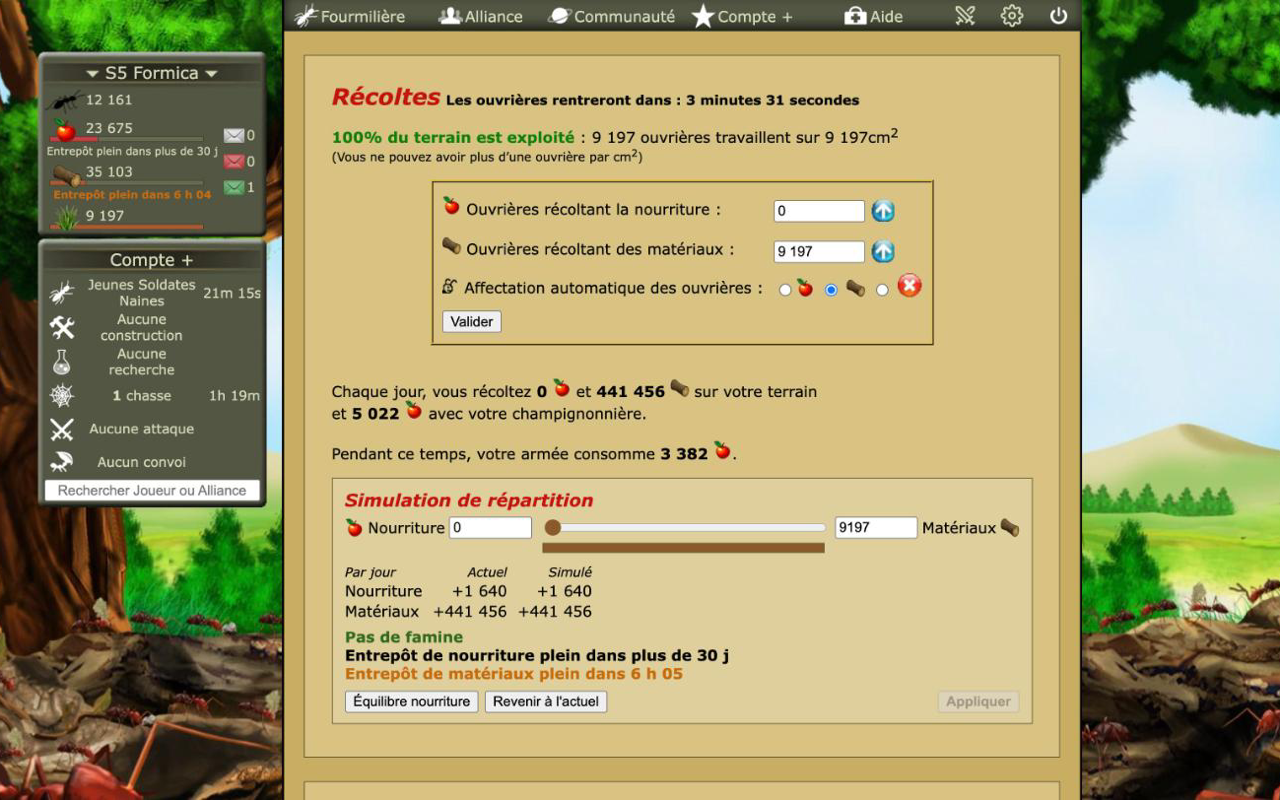
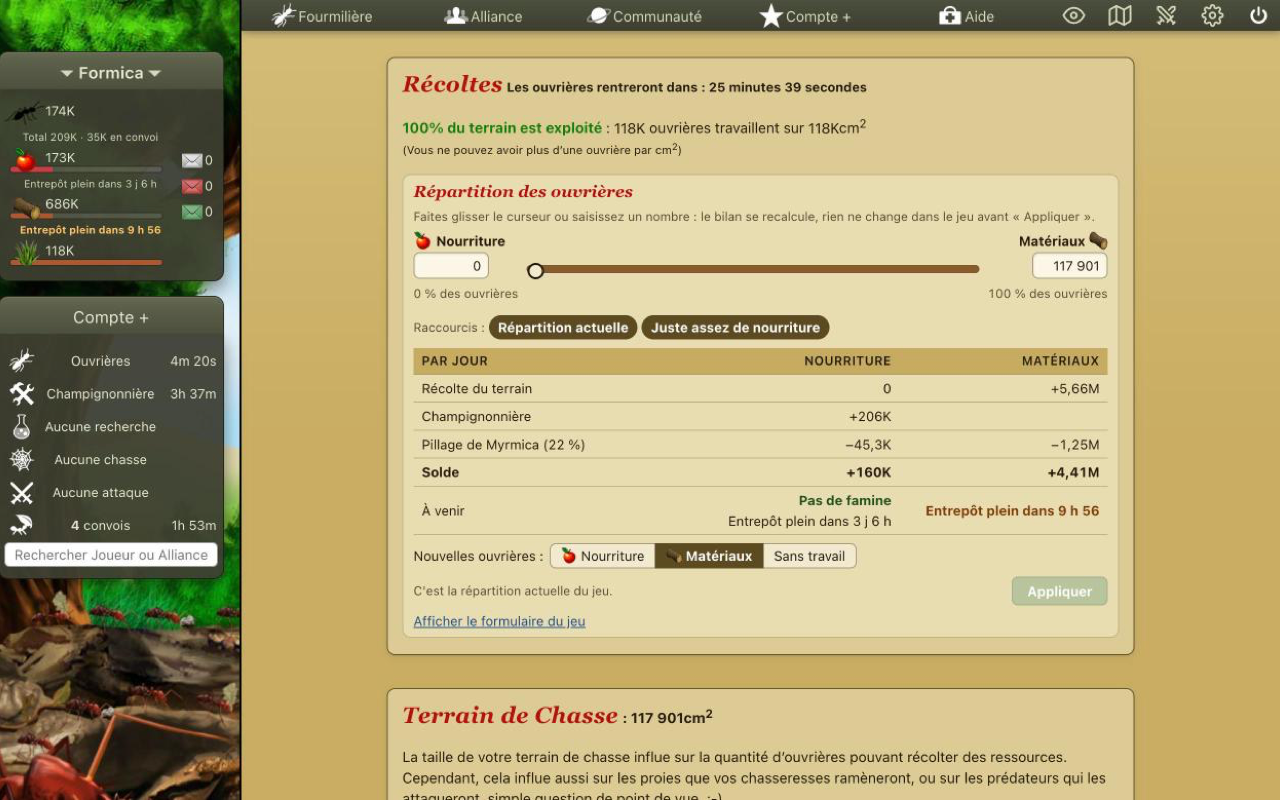
docs: rework the README and refresh the screenshots
Every tool from the catalog grouped by theme, written with vous,
store badges and pointers to the docs. New anonymised captures of
Ressources, Reine and Construction.

diff --git a/README.md b/README.md
@@ -1,51 +1,109 @@
 <p align="center"><img src="src/assets/icon.svg" width="96" alt=""></p>
 
-# Optizzz
+<h1 align="center">Optizzz</h1>
 
-Extension Chrome et Firefox qui ajoute des outils au jeu [Fourmizzz](http://www.fourmizzz.fr).
+<p align="center">
+  Extension Chrome et Firefox qui ajoute des outils au jeu <a href="http://www.fourmizzz.fr">Fourmizzz</a>, directement dans ses pages.
+</p>
+
+<p align="center">
+  <a href="https://chromewebstore.google.com/detail/optizzz/goeifkbimepccacjfkkmhjmhgoiigjpl"><img src="https://img.shields.io/chrome-web-store/v/goeifkbimepccacjfkkmhjmhgoiigjpl?label=Chrome%20Web%20Store" alt="Chrome Web Store"></a>
+  <a href="https://addons.mozilla.org/fr/firefox/addon/optizzz/"><img src="https://img.shields.io/amo/v/optizzz?label=Firefox%20Add-ons" alt="Firefox Add-ons"></a>
+  <a href="LICENSE"><img src="https://img.shields.io/badge/licence-MIT-blue" alt="Licence MIT"></a>
+</p>
+
+<p align="center"><img src="docs/store/images/captures/1-ressources.png" width="720" alt="La page Ressources avec la répartition des ouvrières simulée et le bilan par jour d'Optizzz"></p>
+
+<p align="center">
+  <img src="docs/store/images/captures/2-reine.png" width="356" alt="La Reine avec les raccourcis de ponte d'Optizzz">
+  <img src="docs/store/images/captures/3-construction.png" width="356" alt="Construction avec les chantiers en cours, le délai de paiement et le coût des niveaux suivants">
+</p>
 
 ## Installer
 
-- **Chrome** (et navigateurs Chromium : Edge, Brave, Opera…) : [Chrome Web Store](https://chromewebstore.google.com/detail/optizzz/goeifkbimepccacjfkkmhjmhgoiigjpl)
-- **Firefox** (ordinateur et Android) : [Firefox Add-ons](https://addons.mozilla.org/fr/firefox/addon/optizzz/)
+| Navigateur                                        | Lien                                                                                                  |
+| ------------------------------------------------- | ----------------------------------------------------------------------------------------------------- |
+| Chrome, Edge, Brave, Opera (navigateurs Chromium) | [Chrome Web Store](https://chromewebstore.google.com/detail/optizzz/goeifkbimepccacjfkkmhjmhgoiigjpl) |
+| Firefox (ordinateur et Android)                   | [Firefox Add-ons](https://addons.mozilla.org/fr/firefox/addon/optizzz/)                               |
+
+Une fois installée, ouvrez une page du jeu : les outils apparaissent d'eux-mêmes. Chacun se désactive dans « Fonctionnalités » (roue dentée dans la barre du jeu, ou icône de l'extension).
 
 ## Fonctionnalités
 
-Chaque outil se désactive dans les paramètres (roue dentée dans la barre du jeu, ou icône de l'extension).
+### Votre fourmilière
 
 - **Chantiers en cours** : tableau des constructions et recherches, avec progression et heure de fin.
 - **Heures de fin** : l'heure de fin des chasses, pontes et chantiers à côté des décomptes, et un encart « Prochaines fins ».
-- **Prévisions de ressources** : quand tu pourras payer, famine, entrepôts pleins, et un simulateur de répartition des ouvrières.
-- **Planificateur de ponte** : raccourcis de ponte avec aperçu (tout payer, durée, bilan à zéro), fin, date de paiement et entretien sur la Reine.
-- **Rapports de chasse** : tableau des combats de chaque chasse dans la messagerie, avec les pertes prévues.
-- **Rapports d'attaque** : armées, pertes, Armes adverses et butin de chaque attaque dans la messagerie, à rejouer dans le simulateur de combat.
-- **Attaques et convois en cours** : une liste lisible avec décompte et heure d'arrivée, et un bouton pour copier chacun en une ligne.
-- **Sondes** : une fourmi gardée sur le Dôme et la Loge (et le Terrain si vous le voulez) pour voir l'armée de qui vous attaque ; un bouton pour les placer sur Armée, et le Lanceur de chasse comme le Plan de flood les laissent à la maison.
-- **Simulateur de combat** : depuis la page Armée ou le popup de l'extension.
-- **Lanceur de chasse** : combien chasser et avec quoi, puis lancer en un clic.
+- **Prévisions de ressources** : quand vous pourrez payer, quand vous tomberez en famine, quand un entrepôt sera plein, le coût des niveaux suivants, et un simulateur de répartition des ouvrières.
+- **Conseils** : sur Construction et Laboratoire, ce qu'il vaut mieux faire d'abord (Armes ou ponte, attendre Architecture, la ponte la moins chère à accélérer, l'Étable à pucerons…).
+- **Alertes** : sur l'icône de l'extension, le temps avant une famine ou un entrepôt plein pour tous vos serveurs, et des notifications au choix.
+- **Planificateur de ponte** : sur la Reine, des raccourcis (tout payer, durée de ponte, bilan à zéro) avec aperçu, et la fin, le paiement et l'entretien de la ponte choisie.
+- **Modèles de ponte** : mémorisez une ponte d'armée et relancez-la en un clic.
+- **Calculateur de convoi** : trajet, heure d'arrivée, destinataires suggérés, ce que vous avez livré et reçu par joueur, et le total de vos ouvrières convois compris.
 - **Rechargement sans risque** : recharger une page ou revenir en arrière ne relance plus une ponte, une chasse ou une construction.
-- **Carte de l'alliance** : les membres reliés à leurs plus proches voisins, avec les temps de trajet. Les positions viennent de l'[API publique des exports](https://s5.fourmizzz.fr/developer.php).
-- **Carte du serveur** : situer des joueurs et des alliances (tes pactes, tes guerres) sur tout le serveur, avec distances et trajets.
+- **Nombres arrondis** (à activer) : les grands nombres écrits en court (12,3K, 1,23M), la valeur exacte au survol.
 
-Optizzz retouche aussi l'apparence du jeu, sans changer ses couleurs ni ses images : plus lisible, et adapté au téléphone, à la tablette et aux grands écrans.
+### Chasse et combat
 
-Optizzz n'agit jamais seul : les formulaires du jeu ne sont envoyés que lorsque tu cliques.
+- **Lanceur de chasse** : sur Ressources, combien chasser et avec quoi, puis lancer en un clic.
+- **Rapports de chasse** : dans la messagerie, un tableau des combats de chaque chasse avec les pertes prévues.
+- **Rapports d'attaque** : armées, pertes, Armes adverses et butin de chaque attaque, à rejouer dans le simulateur.
+- **Simulateur de combat** : par-dessus le jeu, depuis la barre du haut ou l'icône de l'extension.
+- **Cibles à portée** : sur Ennemies, les joueurs attaquables triés par distance, avec trajet, état, pactes et guerres.
+- **Plan de flood** : les attaques qui prennent le plus de TDC avec votre armée ; un bouton remplit le formulaire, vous validez vous-même.
+- **Attaques en cours** : une liste lisible avec décompte, heure d'arrivée, lieu et troupes, et un bouton pour copier chacune.
+- **Sondes** : une fourmi gardée sur le Dôme et la Loge (et le Terrain si vous le voulez) pour que le rapport d'une attaque montre l'armée de l'attaquant.
+- **Production sur les profils** : ce que le TDC d'un joueur récolte par jour au plus.
+
+### Alliance et serveur
+
+- **Carte de l'alliance** : les membres reliés à leurs plus proches voisins, avec les temps de trajet.
+- **Carte du serveur** : situer des joueurs et des alliances (vos pactes, vos guerres) sur tout le serveur, avec distances et trajets.
+- **Colonnes de la page Membres** : le trajet vers chaque membre et son rôle dans la chaîne de TDC, triables.
+- **Chaîne de TDC** : qui peut prendre à qui, les rôles et l'ordre des floods pour faire monter le TDC.
+- **Historique de progression** : les courbes du TDC et des scores dans le temps, pour vous, votre alliance et sur chaque profil.
+- **Statistiques d'alliance** : les totaux de l'alliance maintenant et dans le temps, comparés à d'autres alliances.
+- **Suivis** : ce qui a changé chez les joueurs et alliances que vous suivez (alliance, TDC, guerres, pactes) depuis votre dernière visite.
+- **Partage d'alliance** : copiez votre état pour le coller sur le Discord de l'alliance, et lisez celui des autres membres.
+
+Les cartes, l'historique et les suivis s'appuient sur l'[API publique des exports](https://s5.fourmizzz.fr/developer.php) du jeu.
+
+### Apparence
+
+Optizzz retouche aussi l'apparence du jeu, sans changer ses couleurs ni ses images : texte plus lisible, tableaux et menus plus nets, et des pages adaptées au téléphone, à la tablette et aux grands écrans. Les couleurs des outils restent lisibles par les daltoniens.
+
+Le détail de chaque outil est dans [`docs/features/`](docs/features/).
+
+## Optizzz ne joue pas à votre place
+
+Les formulaires du jeu ne sont envoyés que lorsque vous cliquez : une chasse n'est lancée, une répartition appliquée et une attaque remplie qu'à votre demande. Les sondes ne sont déplacées qu'à votre clic ou juste après une chasse ou une attaque que vous avez envoyée.
 
 ## Confidentialité
 
-Aucune donnée n'est envoyée ailleurs que vers Fourmizzz. Voir [PRIVACY.md](PRIVACY.md).
+Aucune donnée n'est collectée ni envoyée ailleurs que vers Fourmizzz. Vos réglages restent dans votre navigateur, et le partage d'alliance passe uniquement par votre copier-coller. Voir [PRIVACY.md](PRIVACY.md).
 
 ## Développement
 
-Prérequis : Node.js 24+, pnpm 12.
+Prérequis : Node.js 24+ et pnpm 12.
 
 ```bash
 pnpm install
 pnpm dev            # Chrome, rechargement à chaud
 pnpm dev:firefox    # Firefox
-pnpm test           # tests
+pnpm test           # tests (vitest)
 pnpm lint && pnpm typecheck
 ```
+
+Le code est en TypeScript, empaqueté par [WXT](https://wxt.dev) (Vite), avec React et Apache ECharts pour les vues les plus riches. Pour s'y retrouver :
+
+- [`CLAUDE.md`](CLAUDE.md) : architecture, conventions et commandes ;
+- [`docs/features/`](docs/features/) : une page par outil ;
+- [`docs/research/`](docs/research/) : ce qu'on sait du jeu (exports, sélecteurs, temps de trajet) ;
+- [`docs/adr/`](docs/adr/) : décisions d'architecture ;
+- [`docs/design-system.md`](docs/design-system.md) : composants et jetons de l'interface ;
+- [`docs/publication.md`](docs/publication.md) : publier une version.
+
+Les commits suivent [Conventional Commits](https://www.conventionalcommits.org/fr/) ; le hook `pre-commit` lance le lint, le typecheck et les tests.
 
 ### Construire l'extension (instructions pour la relecture AMO)
 
@@ -55,11 +113,13 @@ pnpm build:firefox  # résultat : .output/firefox-mv3/
 pnpm build          # Chrome : .output/chrome-mv3/
 ```
 
-Le code est en TypeScript, empaqueté par [WXT](https://wxt.dev) (Vite). Aucun code distant n'est chargé.
+Aucun code distant n'est chargé.
 
 ## Crédits
 
 Inspiré de [Toolzzz](https://github.com/GuiEpi/toolzzz) et d'[Outiiil](https://github.com/Hraesvelg/Outiiil). La formule du temps de trajet provient de Toolzzz.
+
+Optizzz est un projet de joueur, non affilié à Fourmizzz.
 
 ## Licence
 
